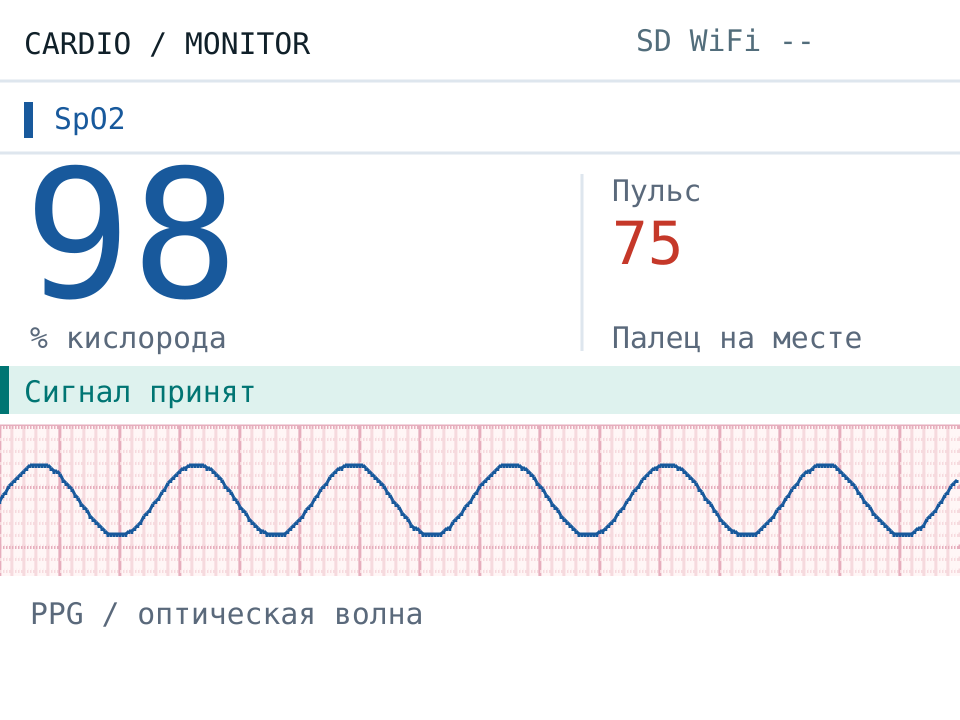
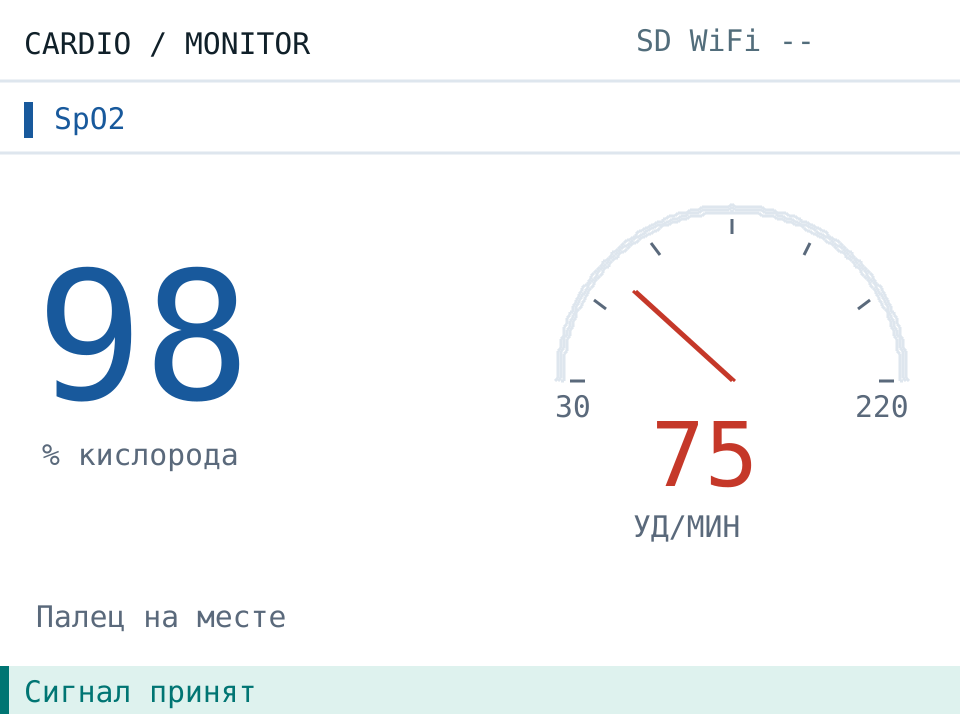
Replace pulse and oxygen waveforms with pulse speedometer displays

diff --git a/Monitor soft/tools/preview_display.py b/Monitor soft/tools/preview_display.py
@@ -17,7 +17,7 @@ a.output.mkdir(parents=True, exist_ok=True)
 source = (root/'MedicalMonitor'/'MedicalMonitor.ino').read_text()
 names = ['clearDisplay', 'UI', 'ecgGraphTop', 'ecgGraphBottom', 'drawHeader', 'drawRecBadge',
          'drawMonitorNavigation', 'drawMeasurementTabs', 'drawMeasurementFrame',
-         'drawOpticalNumber', 'updateDisplayStatistics', 'drawMonitorCaption',
+         'drawPulseGauge', 'drawOpticalNumber', 'updateDisplayStatistics', 'drawMonitorCaption',
          'drawGraphGrid', 'drawWaveColumn', 'drawMeasurementStatus',
          'eraseEcgPlotColumn', 'renderEcgWave', 'renderECG', 'renderPulseOnly', 'renderSpo2Only']
 functions = []
@@ -104,7 +104,7 @@ struct {bool finger=true,hrValid=true,spo2Valid=true;int beatAvg=75;float spo2=9
 struct {bool initialized=true,quality=true;uint32_t start=0;float bpm=75;}ecgDetector;
 EcgPlotBuffer ecgPlot;
 DisplayStatistics displayPulseStats;
-void drawLargeReading(int value,uint16_t color){tft.setTextSize(6);tft.setTextColor(color);tft.setCursor(8,57);if(value<0)tft.print("--");else tft.print(value);}
+void drawLargeReading(int value,uint16_t color,int x,int y){tft.setTextSize(6);tft.setTextColor(color);tft.setCursor(x,y);if(value<0)tft.print("--");else tft.print(value);}
 void updateHeaderStatus(){tft.setTextSize(1);tft.setTextColor(0x536f);tft.setCursor(212,10);tft.print("SD  WiFi  --");}
 '''
 main = r'''
@@ -118,8 +118,8 @@ int main(int argc,char**argv){
  std::cout<<"<svg xmlns='http://www.w3.org/2000/svg' width='960' height='720' viewBox='0 0 320 240'><title>Illustrative firmware rendering, synthetic data, not a measurement</title>\n";
  drawMeasurementFrame();
  int top=currentScreen==SCR_ECG?GRAPH_TOP:PPG_TOP,bottom=currentScreen==SCR_ECG?GRAPH_BOTTOM:PPG_BOTTOM;
- drawGraphGrid(top,bottom);
- if(!empty){
+ if(currentScreen==SCR_ECG)drawGraphGrid(top,bottom);
+ if(!empty && currentScreen==SCR_ECG){
    ecgPlot.reset(0);
    for(int i=0;i<320;++i){
      float phase=fmodf(i*.01f,.8f),r=(phase-.2f)/.014f,t=(phase-.4f)/.06f;

diff --git a/Monitor soft/README.md b/Monitor soft/README.md
@@ -96,8 +96,8 @@ MAX30102 RED/IR ─────┘        ↕                     ↓
 Сбросы, ошибки и старые данные снимают валидность результата. Значок хорошего сигнала
 показывает прохождение программных проверок, а не установленную медицинскую точность.
 
-В режимах ЭКГ и Пульс работают A0 АЦП и оптический канал; экран Пульс показывает
-настоящую мини-ЭКГ. В режиме SpO₂ АЦП обслуживает батарею и кнопку Назад. Анализ истории вычисляется из сохранённого CSV;
+В режиме ЭКГ работают A0 АЦП и оптический канал. В режимах Пульс и SpO₂
+отображаются оптические значения без графиков; АЦП обслуживает батарею и кнопку Назад. Анализ истории вычисляется из сохранённого CSV;
 готовые заключения не накапливаются во внутренней flash. Экран и SD разделяют SPI,
 поэтому их операции выполняются в основном цикле с отдельными CS.
 
@@ -154,8 +154,10 @@ OK и Назад никогда не повторяются. В остальны
 При включённом сохранённом параметре записи открытие измерения создаёт новый файл.
 По умолчанию запись включена; её переключатель убран из пользовательского меню. Индикатор REC означает открытый файл.
 
-Пульс показывает крупную ЧСС, min/среднее/max принятых значений за сеанс и мини-ЭКГ.
-SpO₂ показывает сатурацию, оптическую ЧСС, наличие пальца и PPG. ЭКГ показывает
+Пульс показывает крупную ЧСС со стрелочным спидометром и min/среднее/max за сеанс.
+SpO₂ показывает крупный процент кислорода, маленький спидометр пульса и наличие пальца.
+На обоих экранах нет графиков. Шкала пульса 30–220 — только диапазон отображения,
+не границы медицинской нормы; число сохраняет фактическое значение за пределами шкалы. ЭКГ показывает
 один канал, предварительную ЧСС и качество сигнала. Статистика занимает фиксированный
 объём RAM и сбрасывается при начале сеанса.
 

diff --git a/Monitor soft/docs/light-interface.md b/Monitor soft/docs/light-interface.md
@@ -10,7 +10,11 @@
 тонкие разделители, заголовок выбранного измерения вместо ряда вкладок.
 Восстановлено первоначальное главное меню с пятью пунктами. Основные цифры увеличены
 с масштаба 5 до 6; вспомогательная статистика отделена вертикальной линией.
-Область ЭКГ увеличена с 83 до 92 пикселей по высоте, мини-график — с 41 до 50.
+На отдельном экране ЭКГ остаётся график высотой 92 пикселя.
+На экранах Пульс и SpO₂ графики убраны: Пульс показывает большой стрелочный
+спидометр и статистику, SpO₂ — крупную сатурацию и маленький спидометр пульса.
+При невалидной ЧСС стрелка отсутствует, число заменяется прочерками.
+Шкала 30–220 служит только для отображения и не обозначает медицинскую норму.
 Состояние сигнала занимает одну полосу с цветовым маркером. История, настройки
 и список Wi-Fi используют плоское выделение выбранной строки.
 

diff --git a/README.md b/README.md
@@ -30,7 +30,7 @@ ESP32 собирает и обрабатывает сигналы, рисует 
 | ЭКГ | Сбор A0 ADS1115, фильтрация, график по времени и предварительная оценка частоты |
 | Пульс / SpO₂ | RED/IR MAX30102, RF-алгоритм, проверки пригодности, сброс устаревших результатов |
 | Автонастройка MAX30102 | Подбор токов RED/IR, ограничения, проверка регистров, новое окно после изменения |
-| Одновременные датчики | В режимах ЭКГ и пульса собираются A0 и RED/IR; в режиме пульса видна мини-ЭКГ |
+| Одновременные датчики | В режиме ЭКГ собираются A0 и RED/IR; Пульс и SpO₂ показывают оптические значения без графиков |
 | SD | CSV, страницы истории, сводка, анализ записанных оценок и справка о дальнейших действиях |
 | Wi-Fi | Поиск, ввод пароля, сохранение сети, включение/выключение; сервера измерений пока нет |
 | Android | Исходники клиента и экранов; готового соединения с этой прошивкой нет |
